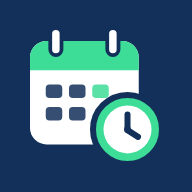
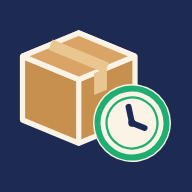
Nieuw app-icoon: doos met stempelklok
Claude-Session: https://claude.ai/code/session_01MFd2ypJnb6eEbVxvzdpnwa

diff --git a/index.html b/index.html
@@ -14,7 +14,7 @@
   <link rel="manifest" href="manifest.webmanifest">
   <link rel="icon" href="icons/favicon-32.png" sizes="32x32" type="image/png">
   <link rel="icon" href="icons/icon.svg" type="image/svg+xml">
-  <link rel="apple-touch-icon" href="icons/apple-touch-icon.png">
+  <link rel="apple-touch-icon" href="icons/apple-touch-icon.png?v=2">
   <link rel="preload" href="fonts/rubik.woff2" as="font" type="font/woff2" crossorigin>
   <link rel="stylesheet" href="styles.css">
 </head>

diff --git a/sw.js b/sw.js
@@ -1,7 +1,7 @@
 // Service worker voor Sven z'n uren.
 // Slaat alleen de app-bestanden op. Gegevens (diensten, rooster, instellingen)
 // staan in IndexedDB en worden door een update NOOIT aangeraakt.
-const VERSION = 'v1.4.0';
+const VERSION = 'v1.4.1';
 const CACHE = 'sven-uren-' + VERSION;
 const FILES = [
   './',
